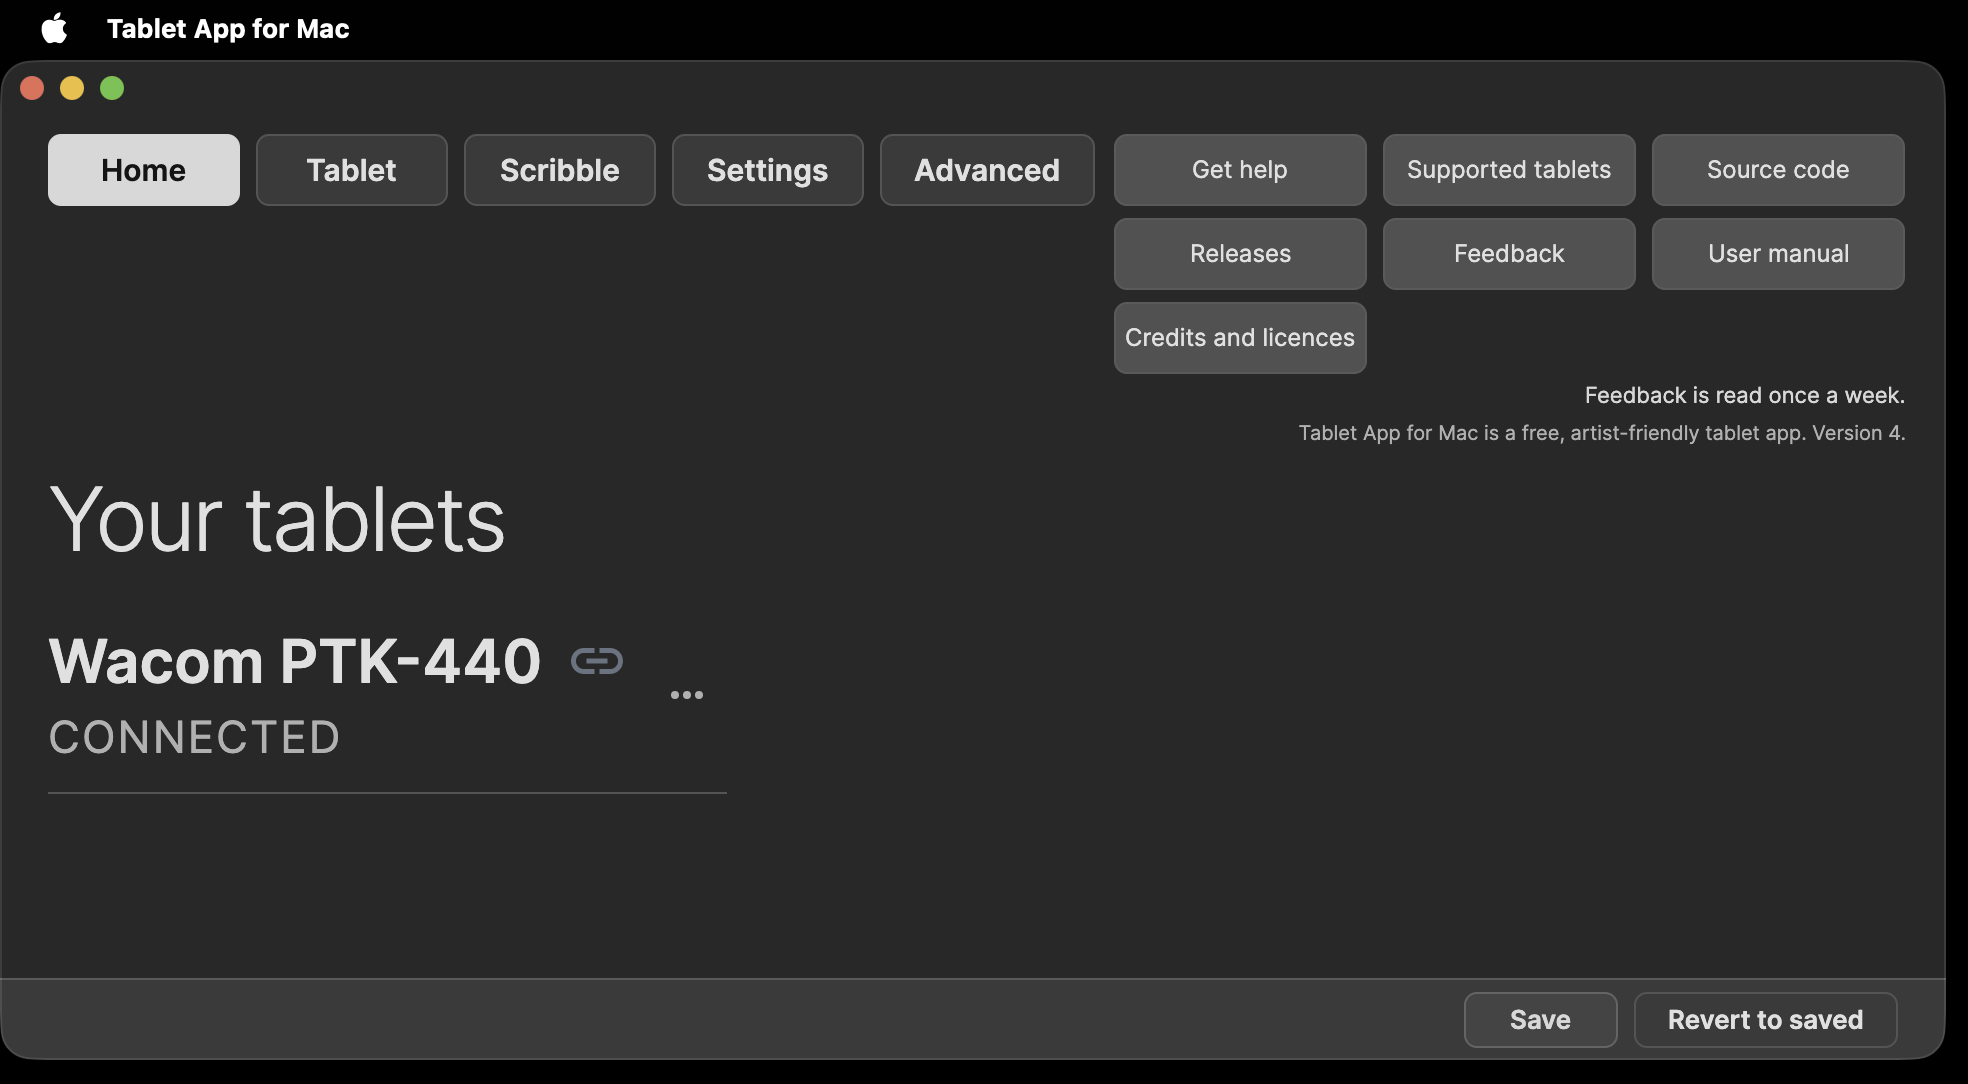
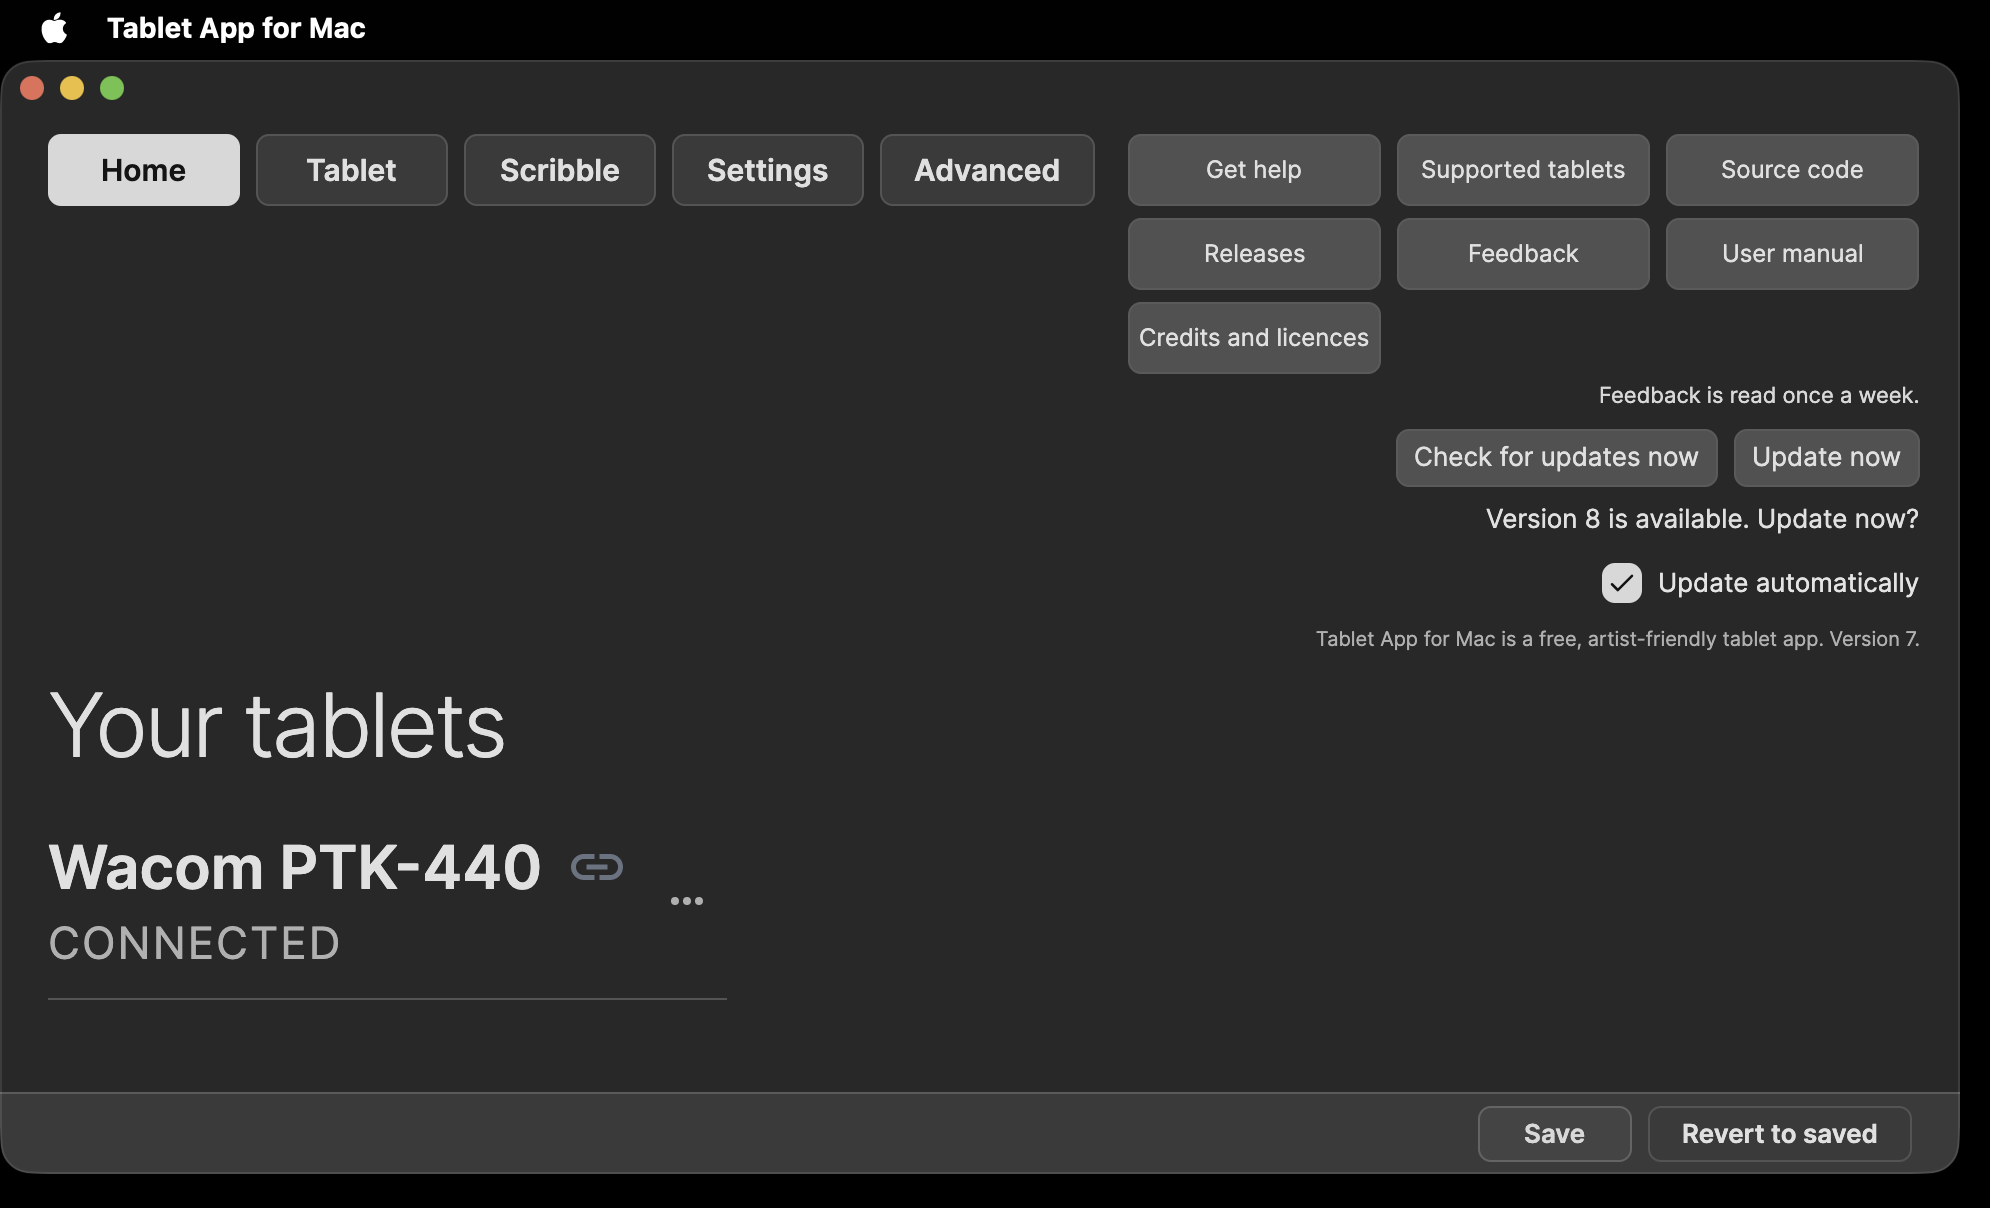
Update Home screenshot
Replace 02-home-overview with the Version 8 update-available Home shot. Add 85-home-updates for the help updates figure. Filenames unchanged so site links keep working.

diff --git a/index.html b/index.html
@@ -19,7 +19,7 @@
 </ol>
 <p><strong>Tip:</strong> if the pen still doesn't move the pointer, select Tablet App for Mac in those two lists, remove it with <strong>−</strong>, add it again with <strong>+</strong>, then reopen the app. Need more help? See the <a href="help/">user manual</a>.</p></section>
 
-<figure class="slot" data-slot="02-home-overview"><picture><source type="image/webp" srcset="/tablet-app-for-mac/assets/shots/02-home-overview.webp"><img src="/tablet-app-for-mac/assets/shots/02-home-overview.png" alt="Home page of Tablet App for Mac" width="1600" height="881" loading="lazy"></picture><figcaption>Home: your tablets and their status.</figcaption></figure><ul class="facts"><li>Free and open source (GPL-3.0)</li><li>No tracking or telemetry</li><li>Apple silicon and Intel (Intel untested)</li><li>Tested on macOS 27.0.1 with an Intuos4 Small (PTK-440)</li></ul>
+<figure class="slot" data-slot="02-home-overview"><picture><source type="image/webp" srcset="/tablet-app-for-mac/assets/shots/02-home-overview.webp"><img src="/tablet-app-for-mac/assets/shots/02-home-overview.png" alt="Home page of Tablet App for Mac" width="1600" height="971" loading="lazy"></picture><figcaption>Home: your tablets and their status.</figcaption></figure><ul class="facts"><li>Free and open source (GPL-3.0)</li><li>No tracking or telemetry</li><li>Apple silicon and Intel (Intel untested)</li><li>Tested on macOS 27.0.1 with an Intuos4 Small (PTK-440)</li></ul>
 <p class="muted">Tested only on that system and tablet. Use at your own risk.</p>
 <h2>What is new in Version 8</h2><ul><li>Language choice in Settings: Match system, English, Español, Deutsch, Français, Български, Русский, 日本語, and 中文 (same set as on this site).</li><li>Quiet start at login and Dock behaviour from Version 7 are kept: pen icon only until you open the window.</li><li>Apple silicon tested. Intel Mac builds included (not yet tested on a real Intel Mac).</li></ul>
 <figure class="slot" data-slot="34-ring-turn"><picture><source type="image/webp" srcset="/tablet-app-for-mac/assets/shots/34-ring-turn.webp"><img src="/tablet-app-for-mac/assets/shots/34-ring-turn.png" alt="Touch ring page with the finger on the ring" width="1600" height="1671" loading="lazy"></picture><figcaption>Touch ring: the active mode is lit, its number is on the centre button, and the angle and direction show under the ring.</figcaption></figure>
